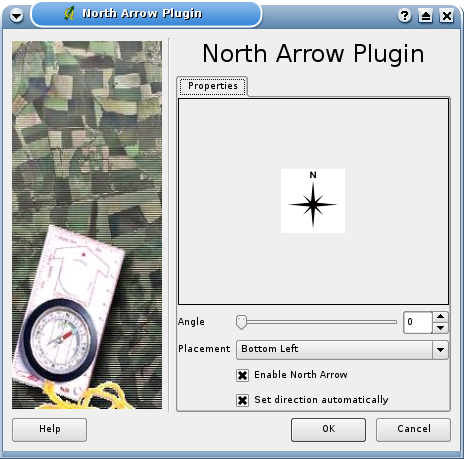
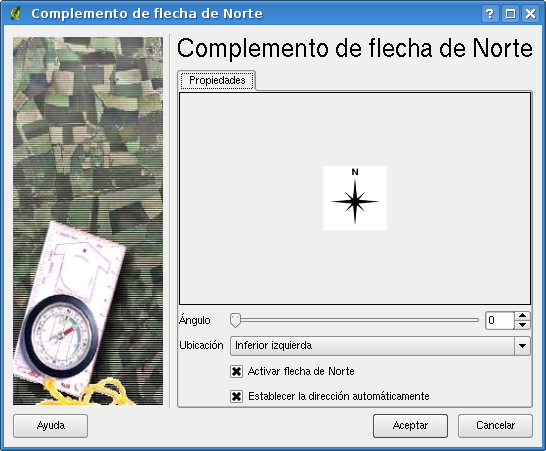
plugins_decorations translation into Spanish with screenshots
git-svn-id: https://svn.osgeo.org/qgis/docs@8159 c8812cc2-4d05-0410-92ff-de0c093fc19c

diff --git a/branches/0.9.1/spanish/user_guide/plugins_decorations.tex b/branches/0.9.1/spanish/user_guide/plugins_decorations.tex
@@ -1,85 +1,71 @@
-\subsection{Using the Decorations Plugins}
+\subsection{Usar los complementos decorativos}
 
-The ``Decoration'' plugins include the following:
+Los complementos ``decorativos'' incluyen lo siguiente:
 
 \begin{itemize}
-\item Copyright Label Plugin
-\item North Arrow Plugin
-\item Scale Bar Plugin
+\item Complemento etiqueta de copyright.
+\item Complemento flecha de Norte.
+\item Complemento barra de escala.
 \end{itemize}
  
-These ``decorate'' the map by adding cartographic elements. 
+``Decoran'' el mapa añadiendo elementos cartográficos.
 
-\subsubsection{Copyright Label Plugin}
+\subsubsection{Complemento etiqueta de copyright}
 
 \begin{figure}[ht]
    \begin{center}
-   \caption{Copyright Plugin}\label{fig:copyright}\smallskip
+   \caption{Complemento de copyright}\label{fig:copyright}\smallskip
    \includegraphics[clip=true, width=8cm]{copyright}
 \end{center}  
 \end{figure}
 
-The title of this plugin is a bit misleading - you can add any random text to the map.
+El título de este complemento puede dar lugar a confusión, ya que puede añadir cualquier texto aleatorio al mapa.
 
 \begin{enumerate}
-\item Make sure the plugin is loaded
-\item Click on the \textsl{Copyright Label} tool on the Plugins toolbar
-\item Enter the text you want to place on the map. You can use HTML as
-  shown in the example
-\item Choose the placement of the label from the drop-down box
-\item Make sure the ``Enable Copyright Label'' checkbox is checked
-\item Click \textsl{OK} 
+\item Asegúrese de que el complemento está cargado.
+\item Pulse en la herramienta \textsl{Etiqueta de Copyright} en la barra de herramientas de complementos.
+\item Introduzca el texto que desee colocar en el mapa. Puede usar HTML como en el ejemplo mostrado.
+\item Seleccione el emplazamiento de la etiqueta en la casilla desplegable.
+\item Asegúrese de que la casilla de verificación ``Activar etiqueta de copyright'' está marcada.
+\item Pulse \textsl{Aceptar}
 \end{enumerate}
 
-In the example above, the first line is in bold, the second (created using
-\textless br\textgreater) contains a copyright symbol, followed by our company name in
-italics.
+En el ejemplo anterior, la primera línea está en negrita, la segunda (creada usando \textless br\textgreater) contiene un símbolo de copyright, seguido por el nombre de nuestra compañía en cursiva.
 
-\subsubsection{North Arrow Plugin}
+\subsubsection{Complemento flecha de Norte}
 
-The North Arrow plugin places a simple north arrow on the map canvas. At
-present there is only one style available. You can adjust the angle of the
-arrow or let QGIS set the direction automatically. If you choose to let
-QGIS determine the direction, it makes its best guess as to how the arrow
-should be oriented.
+El complemento flecha de Norte coloca una sencilla flecha de Norte sobre la vista del mapa. Actualmente sólo hay un estilo disponible. Puede ajustar el ángulo de la flecha o dejar que QGIS establezca la dirección automáticamente. Si elige dejar que QGIS determine la dirección, averiguará lo mejor posible cómo se debe orientar la flecha.
 
-For placement of the arrow you have four options, corresponding to the four 
-corners of the map canvas.
+En cuanto a la ubicación de la flecha, tiene cuatro opciones, correspondientes a las cuatro esquinas de la vista del mapa.
 
 \begin{figure}[ht]
    \begin{center}
-   \caption{North Arrow Plugin}\label{fig:north_arrow}\smallskip
+   \caption{Complemento flecha de Norte}\label{fig:north_arrow}\smallskip
    \includegraphics[clip=true, width=8cm]{north_arrow}
 \end{center}  
 \end{figure}
 
-\subsubsection{Scale Bar Plugin}
-The Scale Bar plugin adds a simple scale bar to the map canvas. You
-control the style and placement, as well as the labeling of the bar. 
+\subsubsection{Complemento barra de escala}
+El complemento barra de escala añade una barra de escala sencilla a la vista del mapa. Puede controlar el estilo y la ubicación, así como el etiquetado de la barra.
 
-QGIS only supports displaying the scale in the same units as your map frame. So
-if the units of your layers are in meters, you can't create a scale bar in
-feet. Likewise if you are using decimal degrees, you can't create a scale
-bar to display distance in meters.
+QGIS sólo puede mostrar la escala en las mismas unidades que tenga el mapa. Por tanto, si sus capas están en metros no puede crear una barra de escala en pies. Del mismo modo, si está usando grados decimales no puede crear una barra de escala para mostrar las distancias en metros.
 
-To add a scale bar:
+Para añadir una barra de escala:
 
 \begin{enumerate}
-\item Open the plugin dialog by clicking on the \textsl{Scale Bar} tool
-  on the Plugins toolbar
-\item Choose the placement from the drop-down list
-\item Choose the style
-\item Select the color for the bar, or use the default black color
-\item Set the size of the bar and its label
-\item Make sure the ``Enable scale bar'' checkbox is checked
-\item Optionally choose to automatically snap to a round number when the
-  canvas is resized
-\item Click \textsl{OK} 
+\item Abra el diálogo del complemento pulsando en la herramienta \textsl{Barra de escala} en la barra de herramientas de complementos.
+\item Seleccione la ubicación en la lista desplegable.
+\item Seleccione el estilo.
+\item Seleccione el color de la barra o use el negro predeterminado.
+\item Establezca el tamaño de la barra y su etiqueta.
+\item Asegúrese de que la casilla de verificación ``Activar barra de escala'' está marcada.
+\item Opcionalmente puede elegir redondear a un número exacto cuando se redimensiona la vista del mapa.
+\item Pulse \textsl{Aceptar} 
 \end{enumerate} 
 
 \begin{figure}[ht]
    \begin{center}
-   \caption{Scale Bar Plugin}\label{fig:scale_bar}\smallskip
+   \caption{Complemento barra de escala}\label{fig:scale_bar}\smallskip
    \includegraphics[clip=true, width=8cm]{scale_bar}
 \end{center}  
 \end{figure}
